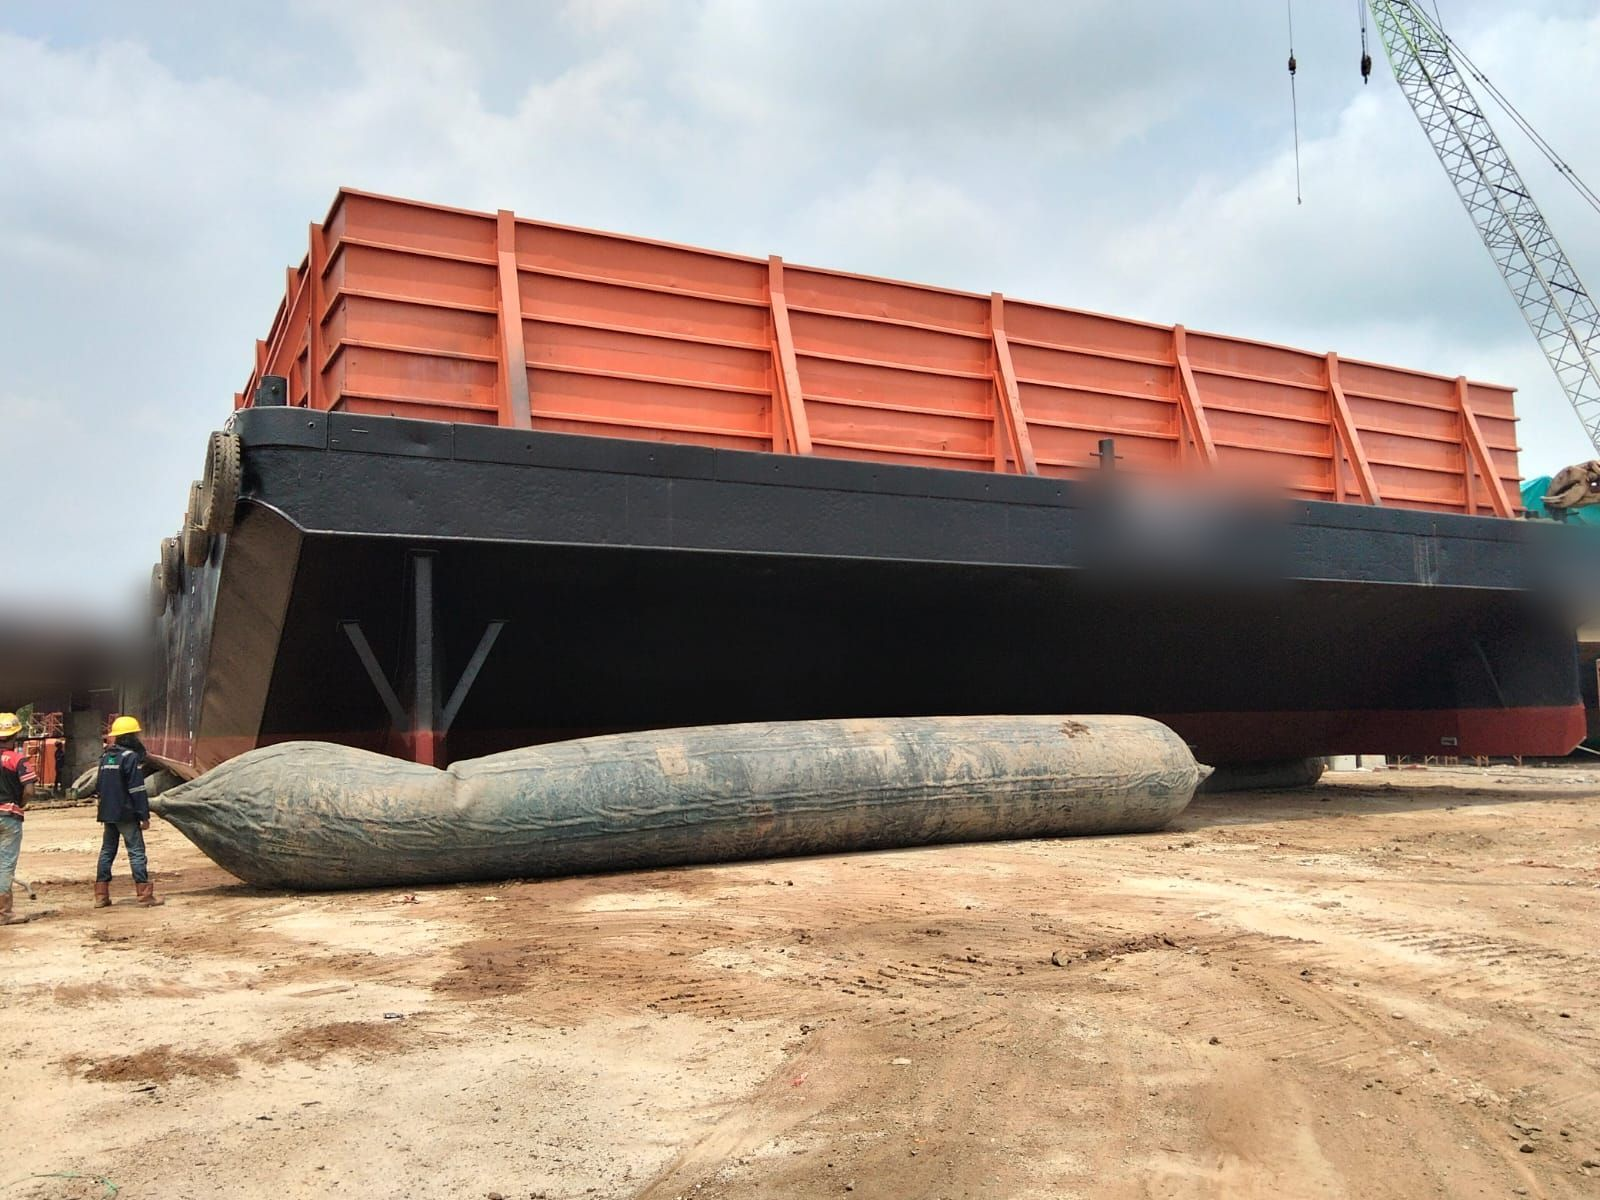
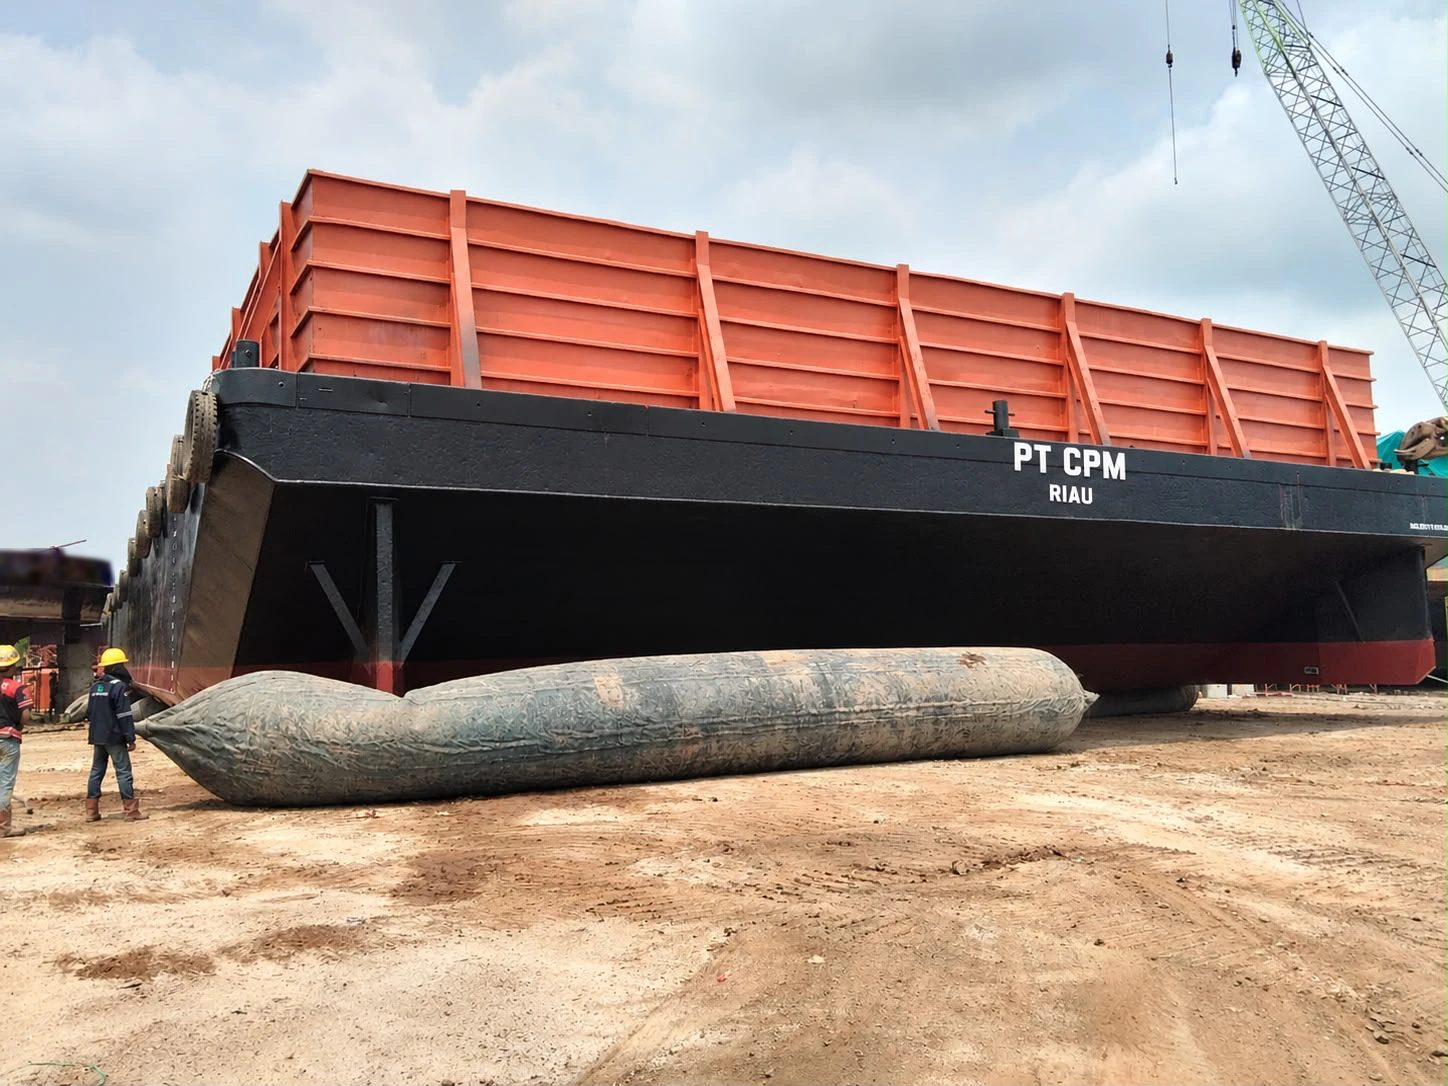
Use own PT CPM barge photo unblurred; replace tarp photo in About
Claude-Session: https://claude.ai/code/session_01N7PvFZyTVamPb1fyLSBNFM

diff --git a/index.html b/index.html
@@ -79,7 +79,7 @@
 <!-- ============ ABOUT ============ -->
 <section class="about" id="tentang">
   <div class="about-band">
-    <div class="about-media"><img src="assets/img/yard-overview.jpg" alt="Kapal di area galangan PT. Cipta Piramida Mandiri" loading="lazy"><span class="about-caption">Keahlian lokal. Komitmen pada kualitas.</span></div>
+    <div class="about-media"><img src="assets/img/yard-overview.jpg" alt="Area galangan PT. Cipta Piramida Mandiri dengan crane dan bangunan workshop" loading="lazy"><span class="about-caption">Keahlian lokal. Komitmen pada kualitas.</span></div>
     <div class="container about-inner">
       <div class="about-content">
         <p class="eyebrow">Tentang Kami</p>
